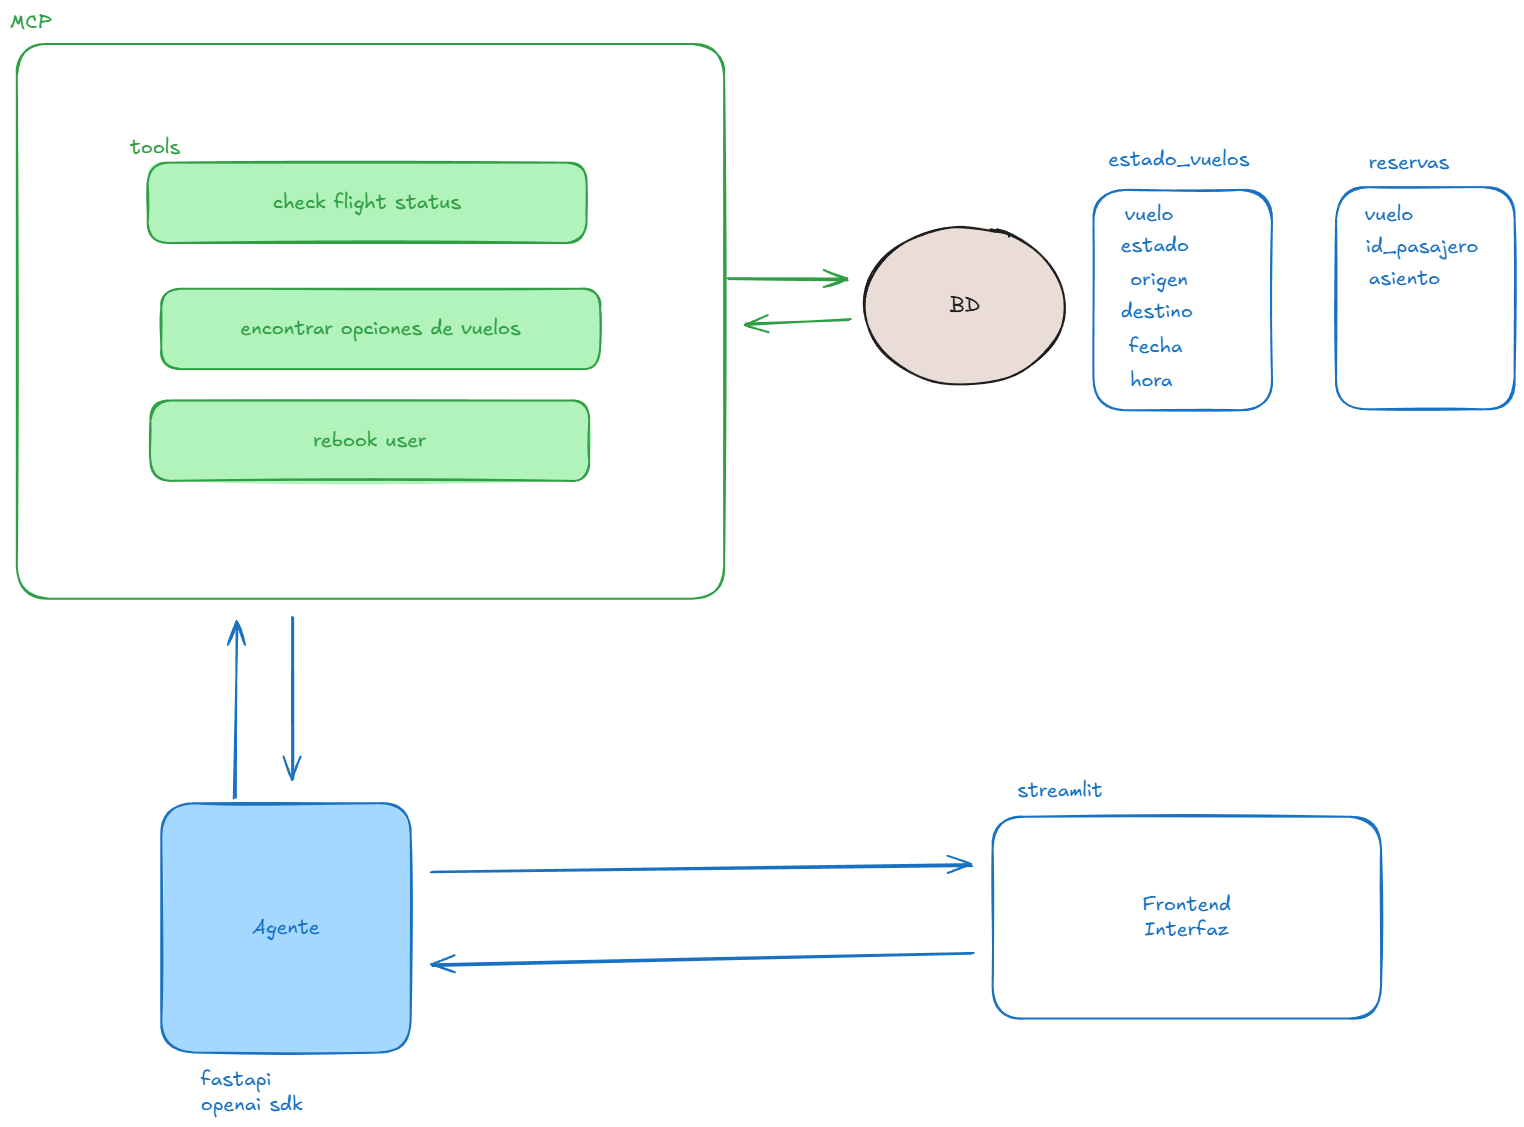
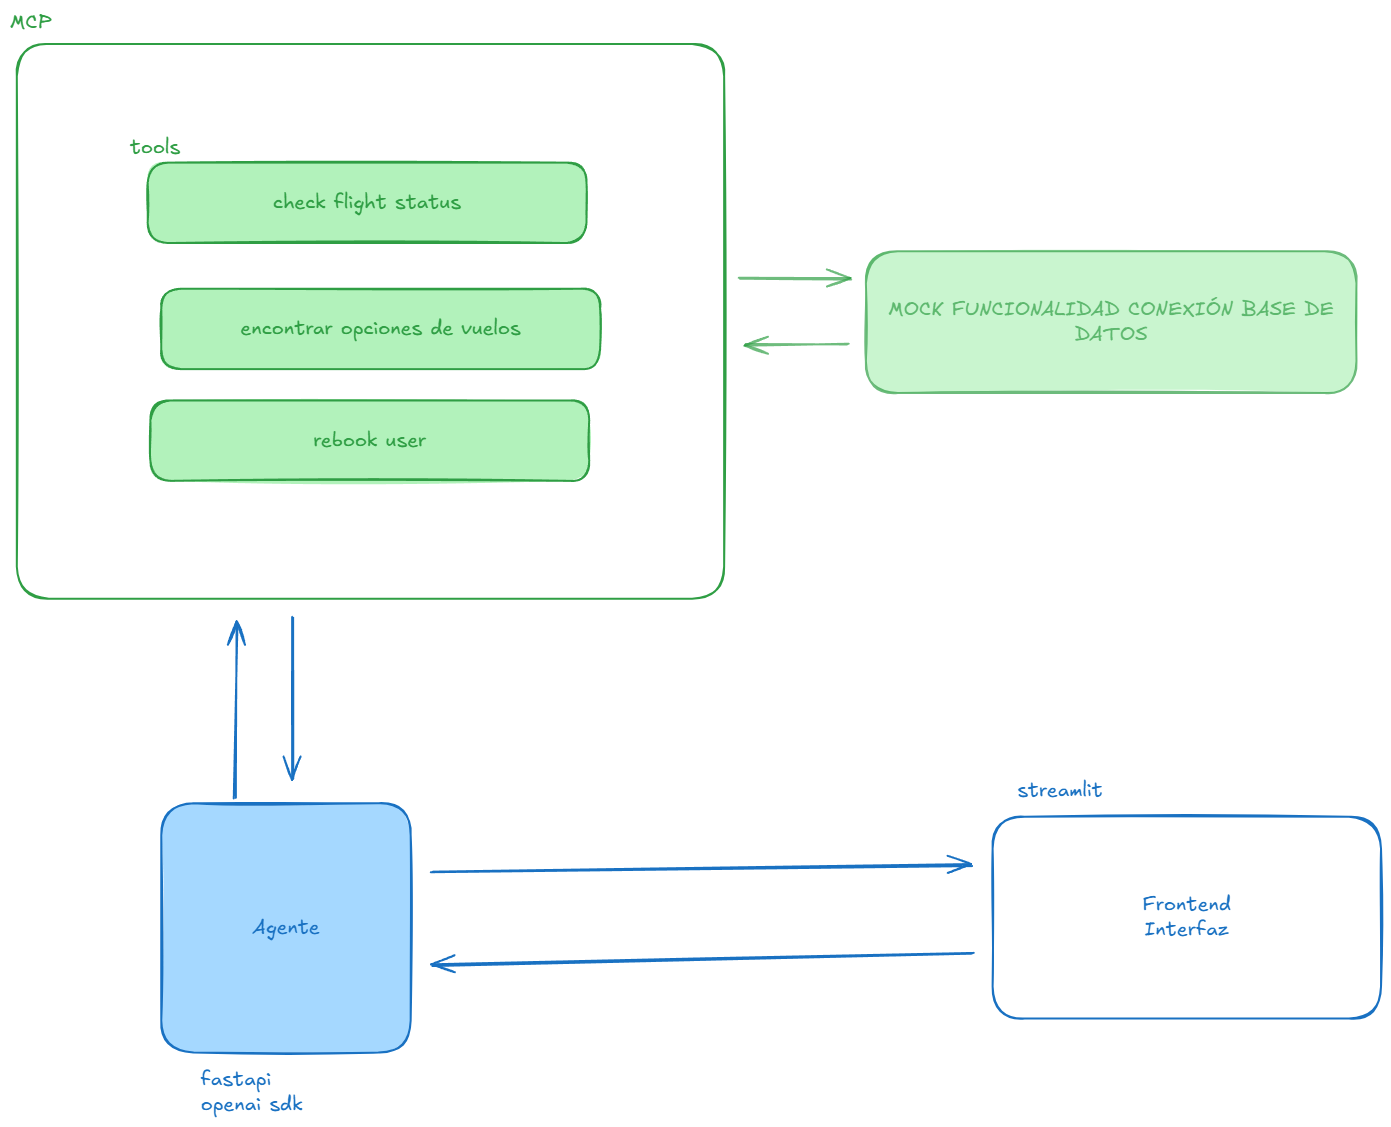
docs: cambio de arquitectura

diff --git a/README.md b/README.md
@@ -2,7 +2,7 @@
 
 **Reto:** agente que inicia la conversación ante cancelación de vuelo, maneja estado multi‑turno, usa herramientas (mock), es resiliente a interrupciones y es escalable. 
 
-**Stack propuesto orientado a ejecución rápida:**  Python + OpenAI SDK (razonamiento) + FastAPI (servicios) + FastMCP (herramientas) + Streamlit (UI) + Docker Compose (despliegue). Persistencia mínima en SQLite (simular base de datos de aerolinea)
+**Stack propuesto orientado a ejecución rápida:**  Python + OpenAI SDK (razonamiento) + FastAPI (servicios) + FastMCP (herramientas) + Streamlit (UI) + Docker Compose (despliegue). Se hace mocks de la conexión a base de datos (simular interacción con base de datos de aerolinea)
 
 Streamlit funcionará como demo para la parte frontend.
 la propuesta aqui desarrollada es para la seccion de IA. En especifico la mostrada en MCP y Agentes.
